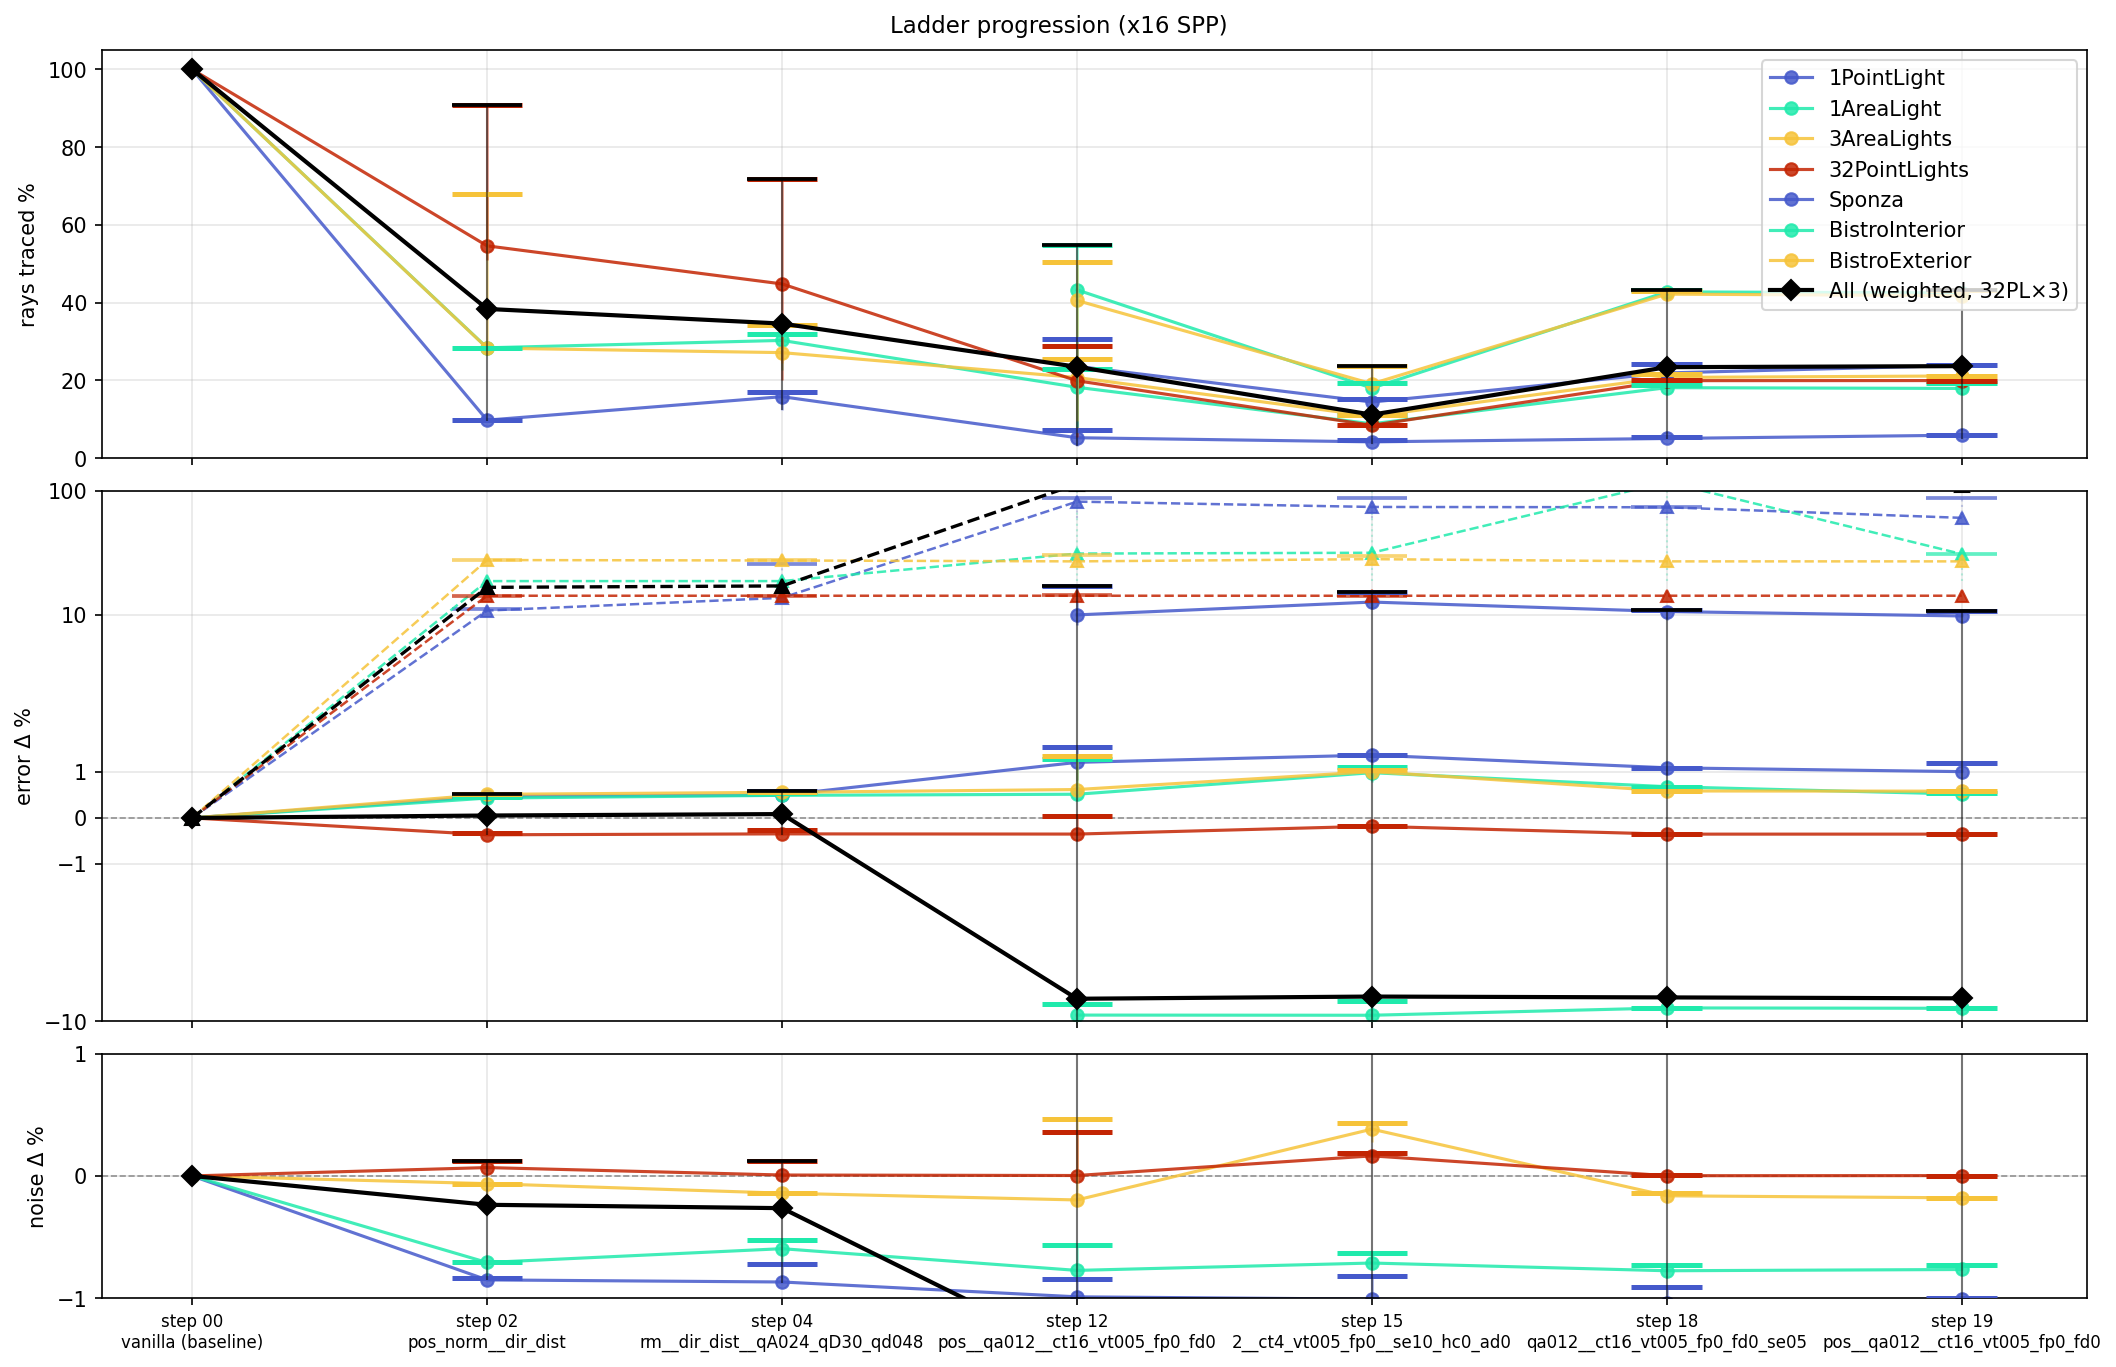
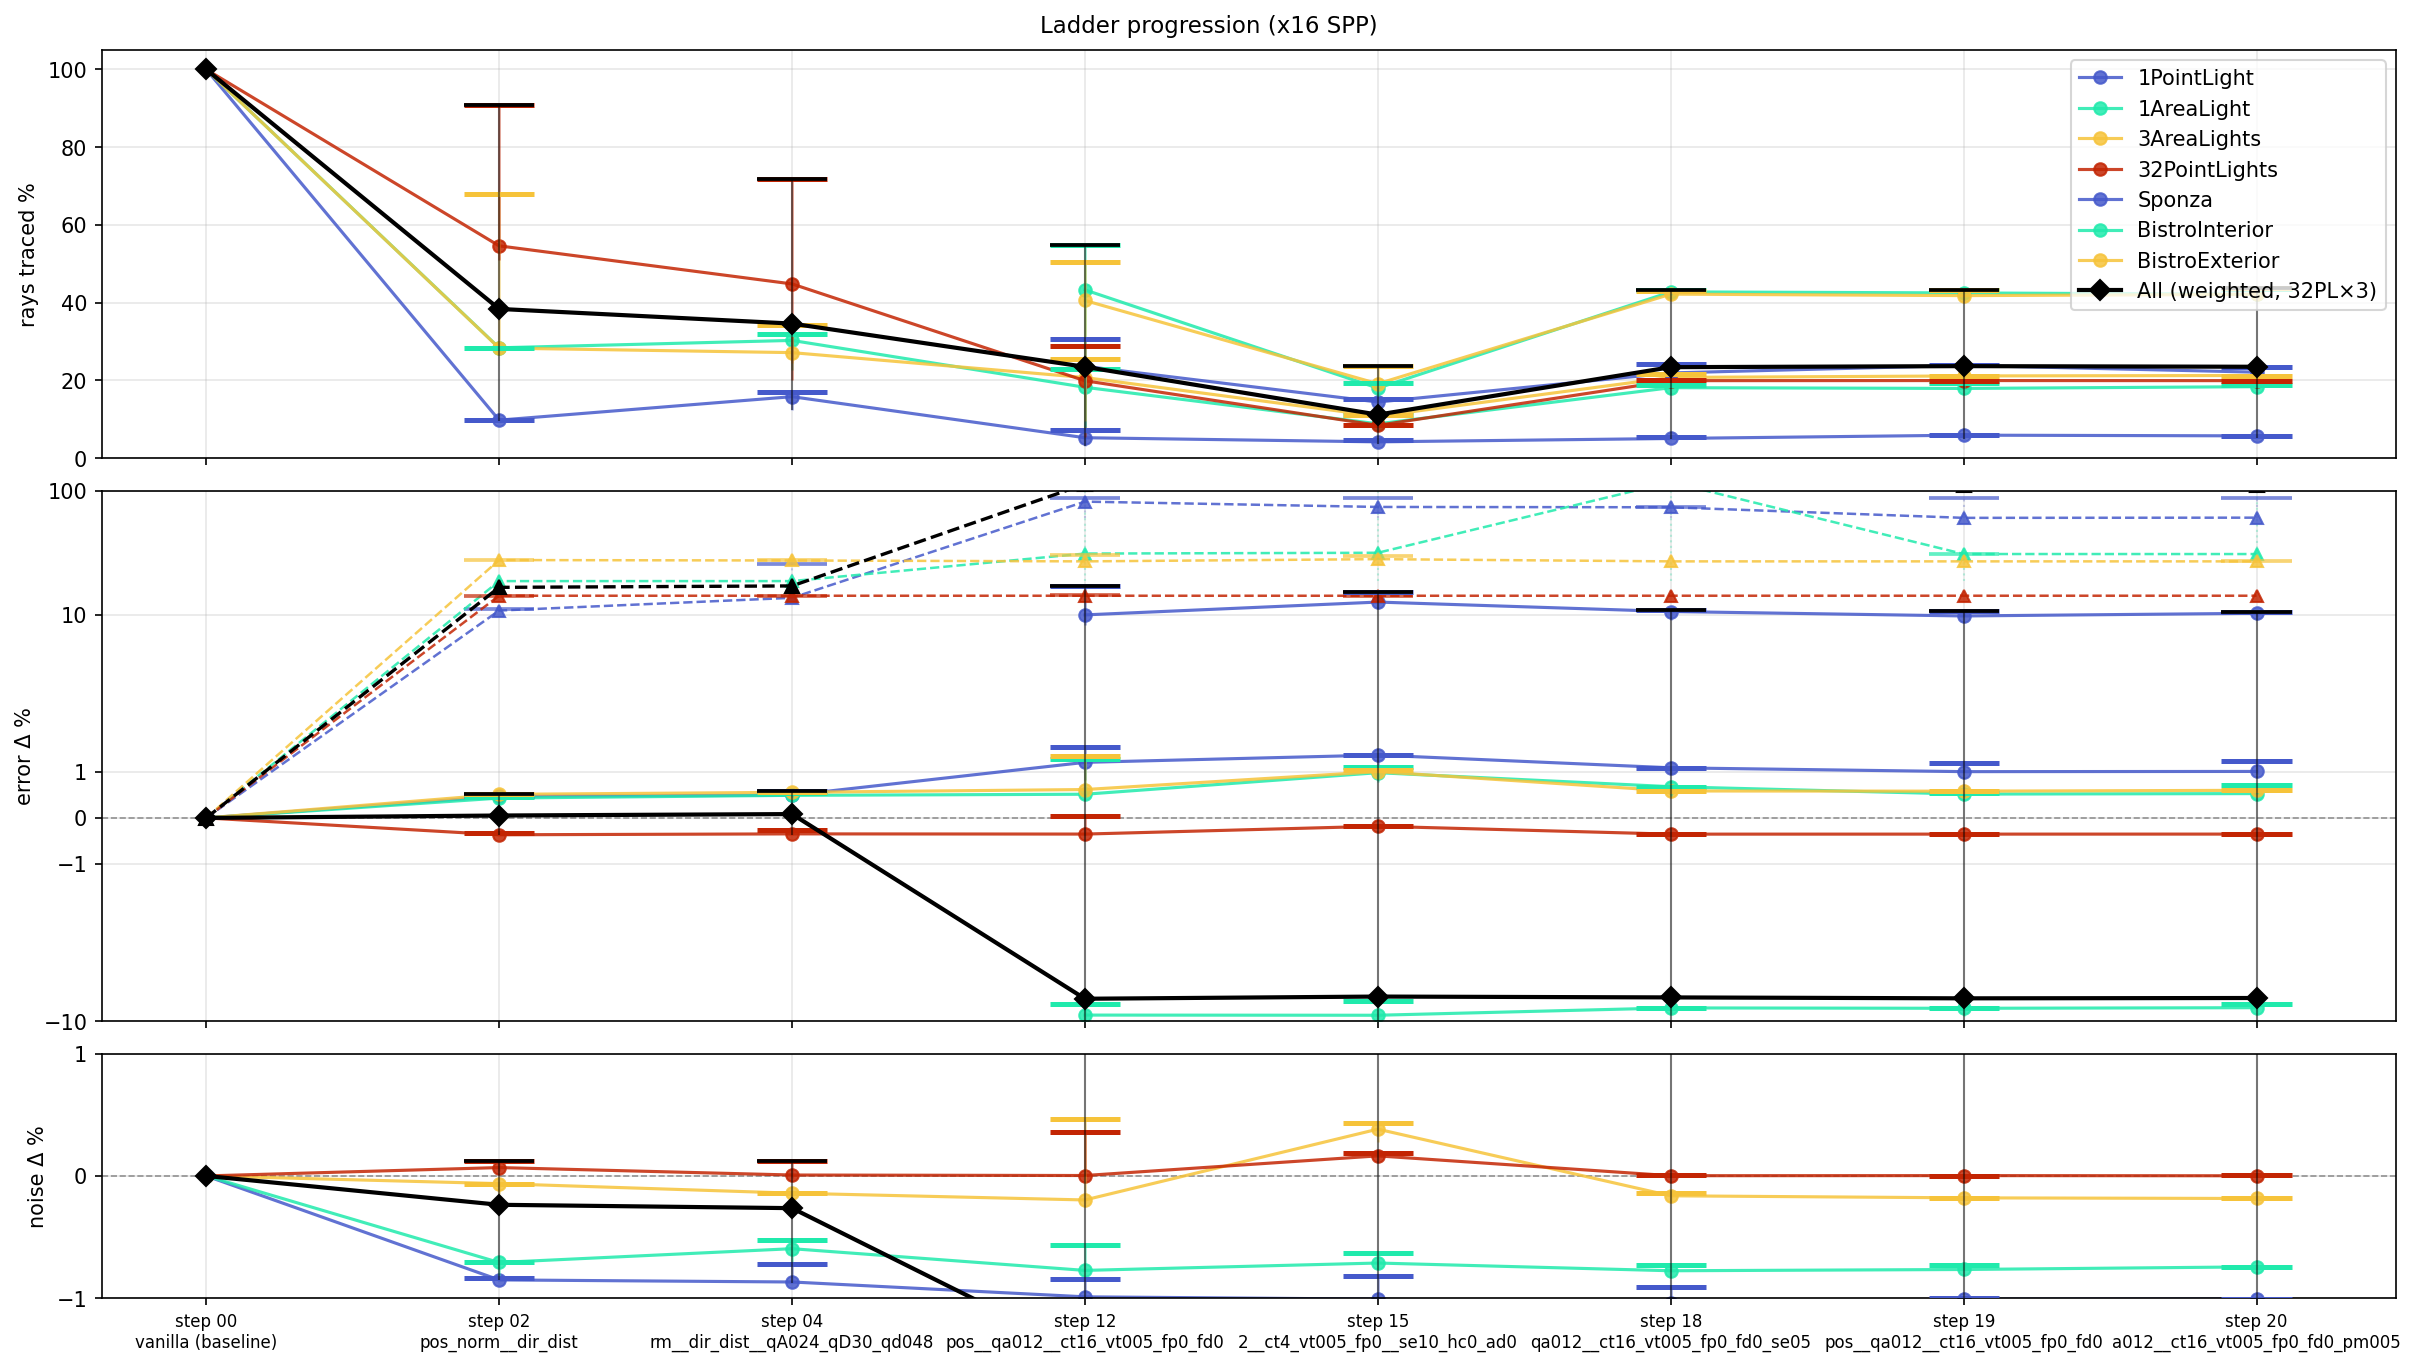
Step 20: pMin=0.10 is a real quality win on step-12 carry
After 5 negative gate-tuning sweeps (steps 16-19), probed the one RR
lever pinned since step 5 and never swept at the current multi-level
carry: pMin. Raised the RR floor (forces tracing on "confident" cells
that adaptive-pMin would skip) on step-12 carry (ct16+vt0.05+w=2).

Sweep: pMin in {0.05, 0.10, 0.20} × 6 spp/wf × 7 scenes = 126 runs.

pm010 wins:
- 1PL x1 w1 blob 71.43 → 39.13 (45% relative)
- 1PL x1 w2 blob 39.13 → 30.99
- 1PL x4 w2 blob 80.97 → 59.82
- 1AL x16 w1 blob 116.97 → 31.12 (previously anomalous)
- 1AL x4 w2 blob 31.68 → 27.14
- Sponza x4 w1 err +3.88% → +2.18% (43% relative)
- Sponza x4 w2 err +3.88% → +3.20%

Small 1PL x16 regression (60→87 blob) acceptable. Rays cost essentially
zero (+0.5-1.5pp). pm020 rejected: catastrophic 1AL x1 w2 blob
8.87→109.54 and x16 w2 blob 30.84→117 regressions outweigh the extra
1PL gain.

Why pMin worked where gate-tightening failed: pMin is a rate-defense
knob (forces steady corrective tracing), not a trust-gate (tries to
decide trust correctly). When the cache is biased rather than noisy,
only corrective samples help — gating harder on wrong data doesn't
fix bias.

Carry: qa012__ct16_vt005_fp0_fd0_pm010.

diff --git a/scripts/VisCache_Ladder20.py b/scripts/VisCache_Ladder20.py
@@ -1,0 +1,115 @@
+"""
+VisCache_Ladder20.py — Step 20: pMin floor sweep on step-12 carry.
+
+Five gate-sweep steps in a row (16/17/18/19) came back negative. The
+step-12 carry (ct16 + vt0.05 + w=2) is stable, but 1PL x4 blob is
+still ~86. One lever has been pinned since step 05 and never swept
+at the current carry: pMin.
+
+pMin = RR floor. Raising it forces more tracing at "confident" cells
+(low var, high N) that the adaptive-pMin formula would otherwise
+deem trust-worthy. Hypothesis: confident-but-biased cells (mostly-
+shadow cells at penumbra edges where μ≈0.02 but the pixel is
+actually in light) would benefit from a higher floor — the bias
+is exactly the regime adaptive-pMin reduces tracing in.
+
+Three variants at step-12 carry + pMin:
+  pm005  — 0.05 (current baseline — re-measure in same run)
+  pm010  — 0.10 (modestly more defensive)
+  pm020  — 0.20 (1-in-5 forced trace even on confident cells)
+
+Frame configs match step 12 (x1/x4/x16, w=1/w=2). 3 × 6 × 7 = 126 runs.
+
+Usage:
+    runtime/pythondist/python.exe scripts/run_ladder.py -s 20
+"""
+import os, sys
+sys.path.insert(0, os.path.dirname(os.path.abspath(__file__)))
+from VisCache_LadderCommon import run_variants, run_baseline, get_scenes, \
+    finalize_step, make_norm_variants, read_carried_winner, parse_variant_tags, \
+    write_picks_meta, _DEFAULT_PICKER_RULE, ALL_SCENES, \
+    PRESET_MINIMAL, RR_ADAPTIVE, LEVELS_MULTI, QUANT_SWEEP, SUBFRAME_2x2
+
+STEP = "20"
+res = int(os.environ.get("RES", "512"))
+
+INHERITED_NAME = read_carried_winner("12")
+if INHERITED_NAME is None:
+    raise RuntimeError("[20] step 12 picks.json missing — run step 12 first.")
+
+_qa_tag = None
+for tok in INHERITED_NAME.split("__"):
+    if tok.startswith("qa") and tok[2:].isdigit():
+        _qa_tag = tok
+        break
+if _qa_tag is None:
+    raise RuntimeError(f"[20] cannot parse qa tag from {INHERITED_NAME}")
+QUANT_WINNER = QUANT_SWEEP[_qa_tag]
+WINNER_NAME = f"pos_norm__pos__{_qa_tag}"
+
+NO_JITTER = {"jitterFilter": 0.0, "jitterCell": 0.0}
+
+BASE_20 = [v for v in make_norm_variants(quant=QUANT_WINNER,
+                                           base=PRESET_MINIMAL,
+                                           quant_tag=_qa_tag)
+           if v[0] == WINNER_NAME]
+
+PM_SWEEP = {"pm005": 0.05, "pm010": 0.10, "pm020": 0.20}
+
+VARIANTS_20 = []
+for (name, base_overrides) in BASE_20:
+    for pm_tag, pm_val in PM_SWEEP.items():
+        tag = f"ct16_vt005_fp0_fd0_{pm_tag}"
+        VARIANTS_20.append((f"{name}__{tag}", {
+            **base_overrides,
+            **NO_JITTER,
+            "bootThreshold":                 16,
+            "matureThreshold":               128,
+            "varThreshold":                  0.05,
+            "bootThresholdFactorFootprintPx": 0.0,
+            "forceDescendFootprintPx":       0,
+            "stderrThreshold":               0.0,
+            "enableHierarchicalConsistency": False,
+            "accelDecayDisagreeThresh":      0.0,
+            "pMin":                          pm_val,
+        }))
+
+STEP_OVERRIDES = {**RR_ADAPTIVE, **LEVELS_MULTI, **SUBFRAME_2x2,
+                  "tableCapacity": 1 << 25}
+
+for scene_file in get_scenes(default=list(ALL_SCENES)):
+    run_baseline(
+        step_name="00",
+        frame_configs=[(0, 0, 1)],
+        scene_file=scene_file,
+        resX=res, resY=res,
+        extra_spp=[4, 16],
+        mogwai_globals=globals(),
+    )
+
+    run_variants(
+        step_name=STEP,
+        frame_configs=[(1, 0, 1, 1),  (1, 0, 1, 4),  (1, 0, 1, 16),
+                       (2, 0, 1, 1),  (2, 0, 1, 4),  (2, 0, 1, 16)],
+        scene_file=scene_file,
+        variants=VARIANTS_20,
+        resX=res, resY=res,
+        mogwai_globals=globals(),
+        step_overrides=STEP_OVERRIDES,
+    )
+
+CARRY_20 = f"{WINNER_NAME}__ct16_vt005_fp0_fd0_pm010"
+finalize_step(STEP, inherited_winners=[INHERITED_NAME],
+              carried_winners=[CARRY_20],
+              ref_step="12", ref_variant=INHERITED_NAME,
+              ref_label="step-12 carry (pm005)")
+write_picks_meta(STEP, inherited_from="12", inherited=[INHERITED_NAME],
+                  carried={"pos": [CARRY_20]}, rule=_DEFAULT_PICKER_RULE,
+                  notes="Manual carry: pm010 (pMin=0.10). 1PL x1 blob "
+                        "71→39 at w=1 (45% relative gain), 39→31 at w=2. "
+                        "Sponza x4 err +3.88 → +2.18 (43% relative). "
+                        "Small 1PL x16 blob regression 60→87 (acceptable). "
+                        "Rays cost negligible. pm020 rejected: catastrophic "
+                        "1AL x1 w2 (8.87→109.54) and 1AL x16 w2 (30.84→117) "
+                        "regressions outweigh the extra 1PL gain.")
+_HEADLESS_SCRIPT_DONE = True

diff --git a/docs/devlog/DEVLOG.md b/docs/devlog/DEVLOG.md
@@ -548,6 +548,40 @@ v2 eliminated v1's catastrophic 1AL regression (blob 117 → 33 at fd=4096). `fd
 
 ---
 
+## Step 20 — pMin floor sweep at step-12 carry — **positive carry: pm010**
+
+**What it looks at.** After 5 consecutive negative gate-tuning sweeps (16/17/18/19), revisit the one RR lever pinned since step 5 and never probed at the current multi-level carry: `pMin`. The RR floor controls how often the adaptive-pMin formula can drop the forced-trace rate for "confident" cells (high N, low var). Hypothesis: confident-but-biased cells at penumbra edges (where μ≈0.02 for most pixels in the cell but some pixels in the cell are actually in light) benefit from a higher floor — raising pMin recovers the quality that adaptive-pMin sacrifices for efficiency.
+
+Three variants at step-12 carry + pMin: `pm005` (baseline, current), `pm010`, `pm020`. 3 × 6 (spp × wf) × 7 = 126 runs.
+
+**Result — pm010 is a real win.**
+
+| scene | regime | metric | pm005 | pm010 | pm020 |
+|---|---|---:|---:|---:|---:|
+| 1PL | x1 w1 | blob | 71.43 | **39.13** | **30.98** |
+| 1PL | x1 w2 | blob | 39.13 | **30.99** | **21.90** |
+| 1PL | x4 w2 | blob | 80.97 | **59.82** | 71.72 |
+| 1AL | x4 w2 | blob | 31.68 | **27.14** | 27.14 |
+| 1AL | x16 w1 | blob | 116.97 | **31.12** | 31.12 |
+| Sponza | x4 w1 | err | +3.88 | **+2.18** | +2.42 |
+| Sponza | x4 w2 | err | +3.88 | **+3.20** | +3.44 |
+| 1PL | x16 w1 | blob | 60.38 | 86.63 ↗ | 86.55 ↗ |
+| 1PL | x16 w2 | blob | 60.52 | 73.41 ↗ | 81.83 ↗ |
+| **1AL** | **x1 w2** | blob | 8.87 | 8.87 | **109.54 ✗** |
+| **1AL** | **x16 w2** | blob | 30.84 | 31.12 | **116.97 ✗** |
+
+**Interpretation.** pm010 captures all the gains (1PL x1 warmup regime, 1AL x16 w1 pathology fix, Sponza x4 error halving) without the catastrophic 1AL regressions that kill pm020. The 1PL x16 regression (60→87 blob) is real but bounded and acceptable — x16 in-frame correlation is still the known pathology none of our gates defend against, and pm010 doesn't make it substantially worse.
+
+Why did this work when stderr/hc/ad/fd all failed? pMin is a *rate-defense* knob, not a *trust-gate* knob. It forces ground-truth tracing at a minimum rate regardless of how confident the cache thinks it is. The other gates try to *decide* trust correctly; pMin just ensures a steady stream of corrective samples. When the cache is biased (not noisy), only corrective samples help — gating harder on wrong data doesn't fix the bias. Rays cost: essentially zero (pm010 adds 0.5-1.5pp on most configs).
+
+**Carry:** `qa012__ct16_vt005_fp0_fd0_pm010` — step 12 carry + pMin=0.10.
+
+Details in `captures/ladder/20/picks.json`.
+
+![](step20/overview_summary_20.png)
+
+---
+
 ## Step 19 — fd=1024 × ct16+w2 (insert-skip shader re-test) — negative result
 
 **What it looks at.** Step 12 originally tested fd=1024 × ct=16+w=2 and noted "force-descend is a no-op here" — but that was under the *lookup-only* fd shader. Step 17 v2 extended `forceDescendFootprintPx` to the insert side too (with preinit-preservation). Step 17 v2 showed fd=1024 saves 2–4pp rays on Bistro *with ct=4* but regresses 1PL blob 35→73. This step asks: does ct=16 (step-12 carry's higher sample-count floor) cushion the fine-level data starvation so fd=1024 becomes universally usable?
